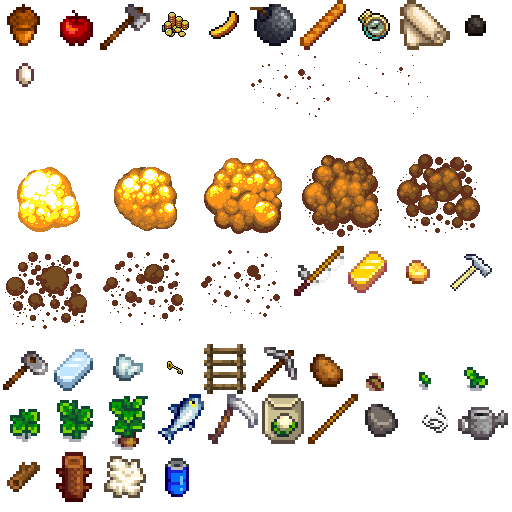
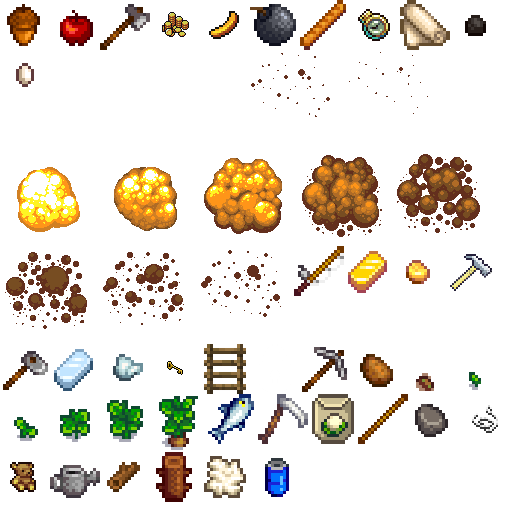
Added teddy bear.

Changed region(s): [[0.0, 0.6562, 1.0, 1.0]]

diff --git a/core/src/com/binarybrains/sprout/item/resource/Resource.java b/core/src/com/binarybrains/sprout/item/resource/Resource.java
@@ -20,6 +20,7 @@ public class Resource {
     public static Resource wool = new Resource("Wool", "Wool is the textile fiber obtained from sheep.");
     public static Resource cloth = new Resource("Cloth", "Textile obtained from whool");
     public static Resource string = new Resource("String", "A nice strong string.");
+    public static Resource teddy = new Resource("Teddy", "A really old but still soft and cuddly teddy bear.");
 
     public static Resource woodFence = new PlantableResource("Wood Fence", "Keep animals contained and the wolf away");
     public static Resource bomb = new PlantableResource("Bomb", "Generates an explosion");

diff --git a/core/src/com/binarybrains/sprout/entity/Player.java b/core/src/com/binarybrains/sprout/entity/Player.java
@@ -70,6 +70,8 @@ public class Player extends Npc implements InputProcessor {
         getInventory().add(new ResourceItem(Resource.banana, 1));
         getInventory().add(new ResourceItem(Resource.wool, 3));
 
+        getInventory().add(new ResourceItem(Resource.teddy, 1));
+
         getInventory().add(new ResourceItem(Resource.coal, 21));
         getInventory().add(new ResourceItem(Resource.stone, 12));
         getInventory().add(new ResourceItem(Resource.goldNugget, 13));
